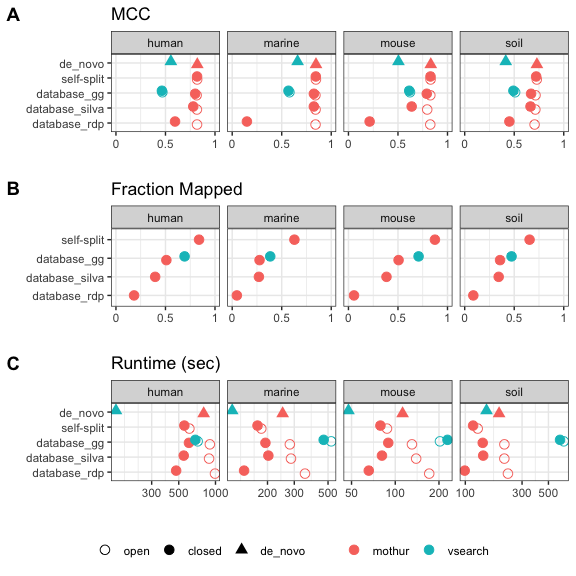
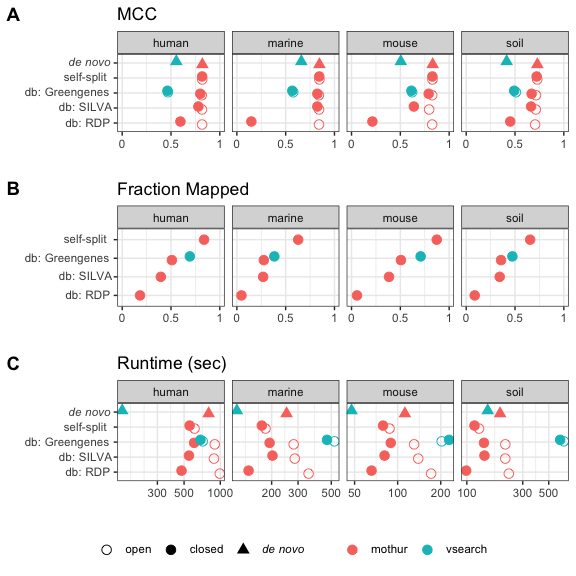
Reformat strategy & method labels gotta have 'de novo' italicized

diff --git a/exploratory/2021/compare-strategies_2021-05.md b/exploratory/2021/compare-strategies_2021-05.md
@@ -1,6 +1,6 @@
 Comparing OTU quality across clustering strategies
 ================
-2021-05-16
+2021-06-08
 
 ### data prep
 
@@ -70,22 +70,59 @@ vsearch <- read_tsv(here('subworkflows/4_vsearch/results/vsearch_results.tsv')) 
 mothur_vsearch <- list(optifit_all, opticlust, vsearch) %>% 
   lapply(select_cols) %>% 
   reduce(bind_rows) %>% 
-  mutate(strategy = factor(strategy, levels = c('database_rdp', 'database_silva', 'database_gg', 'self-split', 'de_novo')),
-         method = factor(method, levels = c('open', 'closed', 'de_novo')))
+  mutate(method = as.character(method),
+         strategy = as.character(strategy))
 sum_all <- mothur_vsearch %>% group_sum()
 head(sum_all)
 ```
 
     ## # A tibble: 6 x 8
-    ## # Groups:   dataset, tool, method [2]
-    ##   dataset tool   method strategy       mcc_median sec_median mem_gb_median
-    ##   <chr>   <chr>  <fct>  <fct>               <dbl>      <dbl>         <dbl>
-    ## 1 human   mothur open   database_rdp        0.819       991.         20.0 
-    ## 2 human   mothur open   database_silva      0.817       886.         20.1 
-    ## 3 human   mothur open   database_gg         0.815       899.         20.3 
-    ## 4 human   mothur open   self-split          0.820       611.          5.61
-    ## 5 human   mothur closed database_rdp        0.597       476.          5.10
-    ## 6 human   mothur closed database_silva      0.780       549.          5.22
+    ## # Groups:   dataset, tool, method [3]
+    ##   dataset tool   method  strategy       mcc_median sec_median mem_gb_median
+    ##   <chr>   <chr>  <chr>   <chr>               <dbl>      <dbl>         <dbl>
+    ## 1 human   mothur closed  database_gg         0.800       606.          5.38
+    ## 2 human   mothur closed  database_rdp        0.597       476.          5.10
+    ## 3 human   mothur closed  database_silva      0.780       549.          5.22
+    ## 4 human   mothur closed  self-split          0.819       556.          5.09
+    ## 5 human   mothur de_novo de_novo             0.821       800.          5.06
+    ## 6 human   mothur open    database_gg         0.815       899.         20.3 
+    ## # … with 1 more variable: frac_map_median <dbl>
+
+### make the strategy & method labels prettier
+
+``` r
+sum_all <- sum_all %>%
+  mutate(
+    strategy = factor(
+      case_when(
+        strategy == "de_novo"        ~ "_de novo_",
+        strategy == 'database_rdp'   ~ "db: RDP",
+        strategy == 'database_silva' ~ "db: SILVA",
+        strategy == 'database_gg'    ~ "db: Greengenes",
+        TRUE                         ~ strategy
+      ),
+      levels = c('db: RDP', 'db: SILVA', 'db: Greengenes', 
+                 'self-split',  '_de novo_')
+    ),
+    method = factor(
+      case_when(method == "de_novo" ~ "_de novo_",
+                TRUE                ~ method),
+      levels = c('open', 'closed', '_de novo_')
+    )
+  )
+head(sum_all)
+```
+
+    ## # A tibble: 6 x 8
+    ## # Groups:   dataset, tool, method [3]
+    ##   dataset tool   method    strategy       mcc_median sec_median mem_gb_median
+    ##   <chr>   <chr>  <fct>     <fct>               <dbl>      <dbl>         <dbl>
+    ## 1 human   mothur closed    db: Greengenes      0.800       606.          5.38
+    ## 2 human   mothur closed    db: RDP             0.597       476.          5.10
+    ## 3 human   mothur closed    db: SILVA           0.780       549.          5.22
+    ## 4 human   mothur closed    self-split          0.819       556.          5.09
+    ## 5 human   mothur _de novo_ _de novo_           0.821       800.          5.06
+    ## 6 human   mothur open      db: Greengenes      0.815       899.         20.3 
     ## # … with 1 more variable: frac_map_median <dbl>
 
 ## facet\_grid()
@@ -171,6 +208,7 @@ TODO:
 -   [ ] set theme elements to add space between facets:
     `+ theme(panel.spacing = unit(c(3,3),'lines'))`
 -   generally: build for the dimensions required by the journal
+-   [ ] fix strategy labels (remove underscores, italicize *de novo*)
 
 ``` r
 plot_quality <- function(dat, y_val, title = '') {
@@ -257,7 +295,7 @@ plot_quality <- function(dat, y_val, title = '') {
                shape = method)) + 
     geom_point(size = 3, position = position_dodge(width = 0.4)) +
     facet_wrap(dataset ~ ., nrow=1) +
-    scale_shape_manual(values = list(open = 1, closed = 19, de_novo = 17)) +
+    scale_shape_manual(values = list(open = 1, closed = 19, `_de novo_` = 17)) +
     #scale_color_manual(values = tri_colors) +
     scale_y_continuous(labels = c('0', '0.5', '1'), 
                        breaks = c(0, 0.5, 1),
@@ -265,7 +303,8 @@ plot_quality <- function(dat, y_val, title = '') {
     coord_flip() +
     labs(x = '', y = '', title = title) +
     theme_bw() +
-    theme(legend.position="none")
+    theme(legend.position="none",
+          axis.text.y = element_markdown())
 }
 
 mcc_plot <- sum_all %>% 
@@ -273,10 +312,11 @@ mcc_plot <- sum_all %>%
 frac_plot <- sum_all %>% filter(method == 'closed') %>% 
   plot_quality(frac_map_median, title = "Fraction Mapped")
 
-shared_legend <- get_legend(mcc_plot + 
+shared_legend <- get_legend(mcc_plot +
                               guides(color = guide_legend(nrow = 1)) +
                               theme(legend.position = "bottom",
-                                    legend.title = element_blank())
+                                    legend.title = element_blank(),
+                                    legend.text = element_markdown())
                             )
 
 main_plot <- plot_grid(mcc_plot, frac_plot,
@@ -300,16 +340,18 @@ plot_runtime <- function(dat, yval, title = '') {
                )) + 
     geom_point(size = 3, position = position_dodge(width = 0.4)) +
     facet_wrap(dataset ~ ., nrow = 1, scales = 'free_x') +
-    scale_shape_manual(values = list(open = 1, closed = 19, de_novo = 17)) +
+    scale_shape_manual(values = list(open = 1, closed = 19, `_de novo_` = 17)) +
     scale_y_log10() +
     #scale_color_manual(values = tri_colors) +
     coord_flip() +
     labs(x = '', y = '', title = title) +
     theme_bw() +
     guides(color = guide_legend(nrow = 1)) +
-    theme(legend.position = "none")
+    theme(legend.position = "none",
+          axis.text.y = element_markdown())
 }
-runtime_plot <- sum_all %>% plot_runtime(sec_median) + labs(title = 'Runtime (sec)')
+runtime_plot <- sum_all %>% plot_runtime(sec_median) + 
+  labs(title = 'Runtime (sec)')
 runtime_plot
 ```
 
